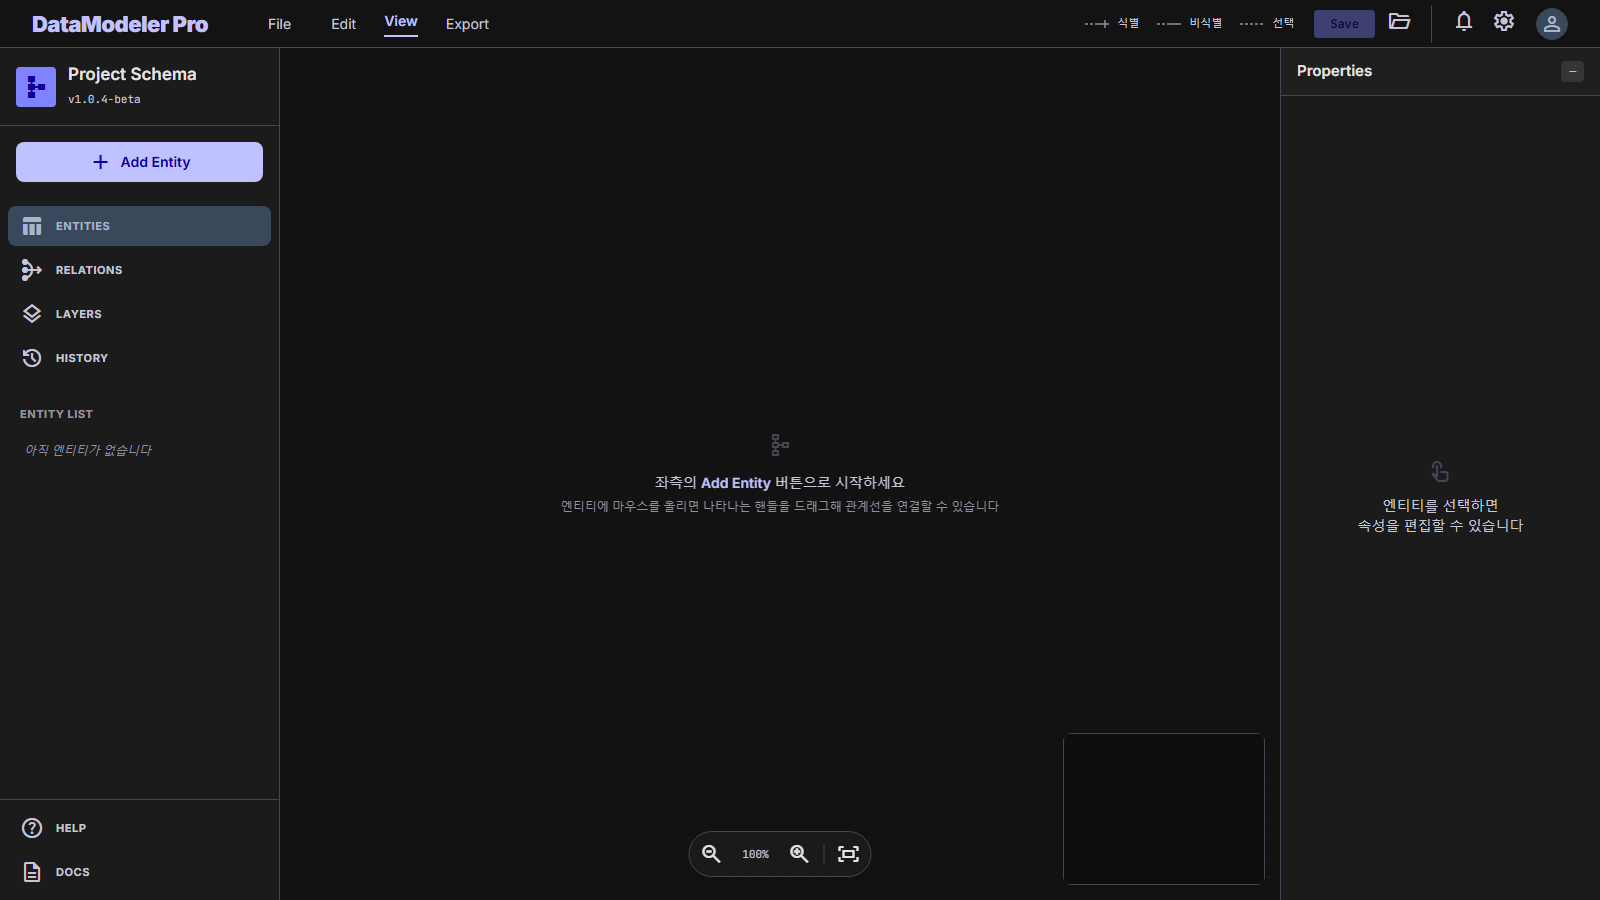
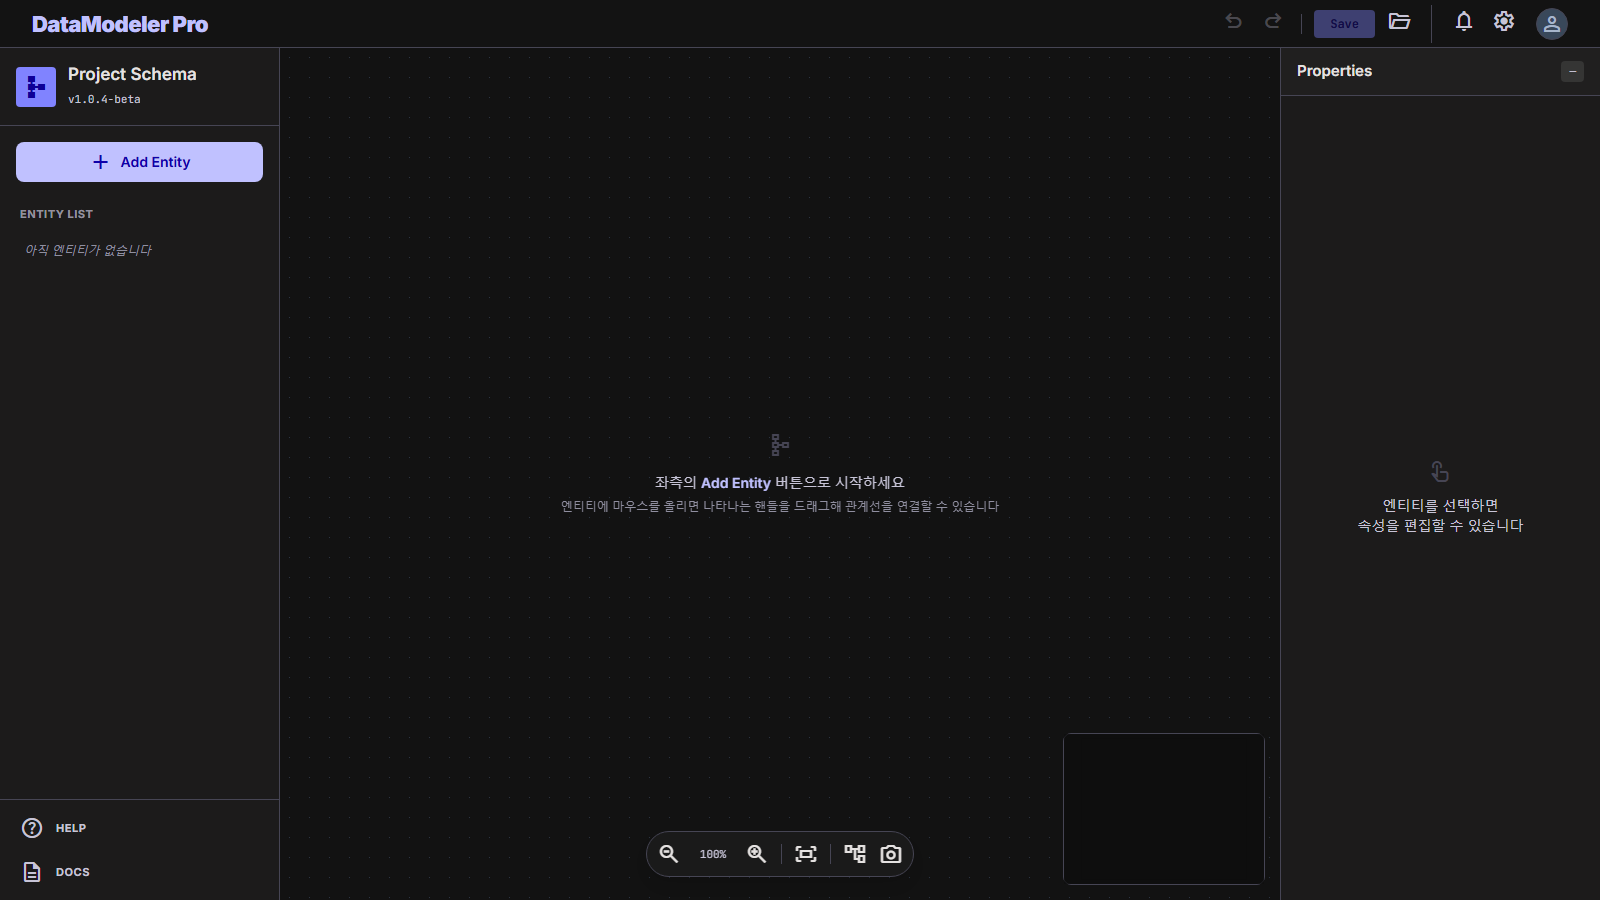
사이드바·GNB 미사용 placeholder 메뉴 제거
- 좌측 사이드바: Entities/Relations/Layers/History 4개 비활성 메뉴 제거, Entity List 상단 이동 (Help/Docs 유지)
- 상단 GNB: File/Edit/View/Export 메뉴와 식별/비식별/선택 범례 제거 (Undo/Redo·Save·불러오기 유지)
- e2e: verify_sidebar_cleanup.mjs(9항목)·verify_gnb_cleanup.mjs(14항목) PASS, 회귀(verify_logical·verify_design) PASS

diff --git a/erd-service/src/components/toolbar/Toolbar.tsx b/erd-service/src/components/toolbar/Toolbar.tsx
@@ -2,8 +2,8 @@ import { useRef } from 'react';
 import { useERDStore } from '../../store/erdStore';
 import { saveERD, loadERD } from '../../utils/fileIO';
 
-// 디자인 시안의 TopNavBar — File/Edit/View/Export 메뉴와 알림/설정/아바타는
-// 현재 기능이 없는 비활성 placeholder, Save/불러오기는 기존 기능 연결
+// 디자인 시안의 TopNavBar — 알림/설정/아바타는 현재 기능이 없는
+// 비활성 placeholder, Save/불러오기는 기존 기능 연결
 export default function Toolbar() {
   const {
     entities, relationships, nodePositions, loadData,
@@ -39,22 +39,9 @@ export default function Toolbar() {
     <header className="flex justify-between items-center h-12 px-8 w-full z-50 shrink-0 bg-surface border-b border-outline-variant">
       <div className="flex items-center gap-4">
         <div className="text-[22px] leading-8 tracking-tight font-black text-primary">DataModeler Pro</div>
-        <nav className="hidden md:flex items-center gap-4 ml-8 h-full text-sm">
-          <span className="text-on-surface-variant hover:bg-surface-variant transition-colors cursor-default px-3 py-1 rounded">File</span>
-          <span className="text-on-surface-variant hover:bg-surface-variant transition-colors cursor-default px-3 py-1 rounded">Edit</span>
-          <span className="text-primary border-b-2 border-primary pb-1 font-semibold">View</span>
-          <span className="text-on-surface-variant hover:bg-surface-variant transition-colors cursor-default px-3 py-1 rounded">Export</span>
-        </nav>
       </div>
 
       <div className="flex items-center gap-2">
-        {/* Barker 표기법 범례 */}
-        <div className="hidden lg:flex items-center gap-4 text-[11px] text-on-surface-variant mr-3">
-          <LegendItem label="식별" solid uid />
-          <LegendItem label="비식별" dashed />
-          <LegendItem label="선택" dotted />
-        </div>
-
         {/* Undo / Redo */}
         <button
           className="text-on-surface-variant hover:text-primary transition-colors p-1 cursor-pointer disabled:opacity-30 disabled:cursor-default disabled:hover:text-on-surface-variant"
@@ -119,30 +106,5 @@ export default function Toolbar() {
         onChange={handleLoad}
       />
     </header>
-  );
-}
-
-function LegendItem({ label, solid, dashed, dotted, uid }: {
-  label: string; solid?: boolean; dashed?: boolean; dotted?: boolean; uid?: boolean
-}) {
-  // 바커: 식별/비식별 = 왼쪽(부모) 절반 점선 + 오른쪽(자식) 절반 실선, 선택 = 전체 점선
-  void dotted;
-  const halfDashed = solid || dashed;
-  const c = '#908fa0';
-  return (
-    <div className="flex items-center gap-1.5">
-      <svg width="28" height="10" viewBox="0 0 28 10">
-        {halfDashed ? (
-          <>
-            <line x1="2" y1="5" x2="14" y2="5" stroke={c} strokeWidth="1.5" strokeDasharray="3 2" />
-            <line x1="14" y1="5" x2="26" y2="5" stroke={c} strokeWidth="1.5" />
-          </>
-        ) : (
-          <line x1="2" y1="5" x2="26" y2="5" stroke={c} strokeWidth="1.5" strokeDasharray="3 2" />
-        )}
-        {uid && <line x1="22" y1="1" x2="22" y2="9" stroke={c} strokeWidth="1.5" />}
-      </svg>
-      <span>{label}</span>
-    </div>
   );
 }

diff --git a/erd-service/src/components/sidebar/Sidebar.tsx b/erd-service/src/components/sidebar/Sidebar.tsx
@@ -1,7 +1,7 @@
 import { useERDStore } from '../../store/erdStore';
 
 // 디자인 시안의 SideNavBar — Add Entity / Entity List는 실제 기능 연결,
-// Relations/Layers/History/Help/Docs는 현재 기능이 없는 비활성 placeholder
+// Help/Docs는 현재 기능이 없는 비활성 placeholder
 export default function Sidebar() {
   const { entities, selectedEntityId, selectEntity, addEntity } = useERDStore();
 
@@ -28,14 +28,9 @@ export default function Sidebar() {
         </button>
       </div>
 
-      {/* Nav + Entity list */}
+      {/* Entity list */}
       <nav className="flex-1 overflow-y-auto custom-scrollbar px-2 py-2 flex flex-col gap-1">
-        <NavItem icon="table_chart" label="Entities" active filled />
-        <NavItem icon="mediation" label="Relations" />
-        <NavItem icon="layers" label="Layers" />
-        <NavItem icon="history" label="History" />
-
-        <div className="mt-6 mb-2 px-3 text-[11px] font-bold tracking-[0.05em] uppercase text-on-surface-variant opacity-70">
+        <div className="mb-2 px-3 text-[11px] font-bold tracking-[0.05em] uppercase text-on-surface-variant opacity-70">
           Entity List
         </div>
         <div className="flex flex-col gap-1 px-1">
@@ -83,24 +78,13 @@ export default function Sidebar() {
   );
 }
 
-function NavItem({ icon, label, active, filled }: {
-  icon: string; label: string; active?: boolean; filled?: boolean
-}) {
+function NavItem({ icon, label }: { icon: string; label: string }) {
   return (
     <span
-      className={`flex items-center gap-3 px-3 py-2 rounded-lg cursor-default transition-all text-[11px] font-bold tracking-[0.05em] uppercase ${
-        active
-          ? 'bg-secondary-container text-on-secondary-container'
-          : 'text-on-surface-variant hover:bg-surface-variant hover:text-on-surface'
-      }`}
-      title={active ? undefined : `${label} (준비 중)`}
+      className="flex items-center gap-3 px-3 py-2 rounded-lg cursor-default transition-all text-[11px] font-bold tracking-[0.05em] uppercase text-on-surface-variant hover:bg-surface-variant hover:text-on-surface"
+      title={`${label} (준비 중)`}
     >
-      <span
-        className="material-symbols-outlined text-[18px]"
-        style={filled ? { fontVariationSettings: "'FILL' 1" } : undefined}
-      >
-        {icon}
-      </span>
+      <span className="material-symbols-outlined text-[18px]">{icon}</span>
       {label}
     </span>
   );

diff --git a/CLAUDE.md b/CLAUDE.md
@@ -15,3 +15,5 @@
 | 2026-06-07 | 논리명/물리명 동시 표시 + Description | 프론트엔드 | 엔티티·컬럼에 논리명(한글 명칭) 필드, 엔티티에 Description 필드 추가 — 노드/사이드바/Properties 패널에 물리명+논리명 병기, 식별 관계 FK 자동 생성 시 논리명도 자동 조합("사용자 아이디"). optional 필드라 기존 저장 파일과 호환 (`types/erd.ts`, `erdStore.ts`, `EntityNode.tsx`, `EntityEditPanel.tsx`, `Sidebar.tsx` 수정, `verify_logical.mjs` e2e 추가) |
 | 2026-06-07 | 유지보수 모드 QA 절차 의무화 | erd-orchestrator 스킬 | 실코드(erd-service/) 단계의 검증 절차 부재 — Phase 0에 유지보수 모드 분기 추가, 빌드+e2e+회귀+시각확인+이력기록 필수 체크리스트 신설 |
 | 2026-06-07 | Undo/Redo·PNG 내보내기·자동 정렬·관계 타입 변경 | 프론트엔드 | 편집 기능 4종 추가 — ① 히스토리 스택 기반 Undo/Redo(Ctrl+Z/Y, 연속 입력 800ms 병합, 상한 50), ② html-to-image 기반 PNG 내보내기, ③ dagre 기반 관계 구조 자동 정렬(Undo 가능), ④ 엣지 선택 툴바에서 관계 타입 변경(식별↔비식별 전환 시 FK 자동 추가/제거). `erdStore.ts` 히스토리 재구성, `autoLayout.ts`·`exportImage.ts` 신규, `verify_features.mjs` e2e 14항목 PASS, 회귀(verify_logical) PASS |
+| 2026-06-07 | 좌측 사이드바 placeholder 메뉴 제거 | 프론트엔드 | 사용하지 않는 Entities/Relations/Layers/History 4개 비활성 메뉴 제거 — Entity List가 사이드바 상단으로 이동, Help/Docs 푸터는 유지 (`Sidebar.tsx` 수정, NavItem 단순화, `verify_sidebar_cleanup.mjs` e2e 9항목 PASS, 회귀 verify_logical PASS) |
+| 2026-06-07 | 상단 GNB placeholder 메뉴·범례 제거 | 프론트엔드 | 사용하지 않는 File/Edit/View/Export 메뉴 4개와 식별/비식별/선택 Barker 범례 제거 — 브랜드·Undo/Redo·Save·불러오기·알림/설정/아바타는 유지 (`Toolbar.tsx` 수정, LegendItem 삭제, `verify_gnb_cleanup.mjs` e2e 14항목 PASS, 회귀 verify_design PASS) |
